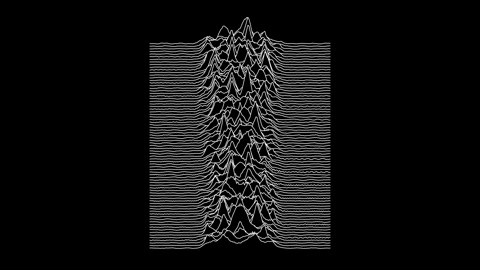
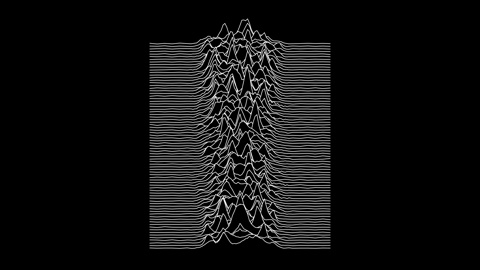
Pulsar: halve path work to meet the 0.5 ms budget
Back lines stroke the same closed path they erase with; the closing
edges are clipped (sides) or buried in the next line's full-alpha erase
(bottom). Flat tails are drawn at every 4th point. 1.1 -> 0.4 ms p50 at
2560x1440 in WebKit.

Changed region(s): [[0.3125, 0.0593, 0.6875, 0.9185], [0.3125, 0.8889, 0.3438, 0.9185], [0.3125, 0.6815, 0.3438, 0.7111]]

diff --git a/plugins/builtin/src/lib/ridges.test.js b/plugins/builtin/src/lib/ridges.test.js
@@ -7,6 +7,7 @@ import {
   buildLine,
   centralEnvelope,
   createRing,
+  drawOrder,
   drawRidges,
   resizeRing,
   ridgeLayout,
@@ -231,6 +232,14 @@ describe("buildLine", () => {
     expect(peaks).toBeGreaterThanOrEqual(3);
   });
 
+  it("never dips more than a wiggle below the baseline", () => {
+    const out = line();
+    for (let seed = 0; seed < 50; seed++) {
+      buildLine(out, 0, env, bandsWith(0, 63, 1), noise, 2, seed);
+      expect(Math.min(...out)).toBeGreaterThan(-0.02);
+    }
+  });
+
   it("wiggles a little in the tails with the waveform, but stays low there", () => {
     const out = line();
     buildLine(out, 0, env, bandsWith(0, 63, 1), noise, 2, 3);
@@ -278,6 +287,7 @@ describe("ridgeLayout", () => {
 describe("drawRidges", () => {
   const P = 5;
   const lay = { left: 100, width: 400, top: 50, bottom: 350, spacing: 100, amp: 200 };
+  const ALL = Int16Array.from([0, 1, 2, 3, 4]);
   /** Four lines; the row pushed k-th (k = 1…4) has the value k/10 at every point. */
   function ring4() {
     const r = createRing(4, P);
@@ -290,10 +300,14 @@ describe("drawRidges", () => {
   /** Split the log into per-draw-call segments: the path ops before each fill/stroke. */
   function draws(/** @type {ReturnType<typeof fakeContext>["log"]} */ log) {
     const out = [];
+    /** @type {typeof log} */
     let path = [];
+    let pathId = 0;
     for (const e of log) {
-      if (e.op === "begin") path = [];
-      else if (e.op === "fill" || e.op === "stroke") out.push({ ...e, path });
+      if (e.op === "begin") {
+        path = [];
+        pathId++;
+      } else if (e.op === "fill" || e.op === "stroke") out.push({ ...e, path: path.slice(), pathId });
       else path.push(e);
     }
     return out;
@@ -301,7 +315,7 @@ describe("drawRidges", () => {
 
   it("erases under each line (destination-out) and then strokes it (source-over)", () => {
     const { log, ctx } = fakeContext();
-    drawRidges(ctx, ring4(), lay, 0, "#ffffff", 3);
+    drawRidges(ctx, ring4(), ALL, lay, 0, "#ffffff", 3, 400);
     const d = draws(log);
     expect(d.map((e) => `${e.op}:${e.gco}`)).toEqual(
       Array(4).fill(["fill:destination-out", "stroke:source-over"]).flat(),
@@ -314,26 +328,77 @@ describe("drawRidges", () => {
 
   it("draws back to front: oldest (top) line first, newest (bottom) last", () => {
     const { log, ctx } = fakeContext();
-    drawRidges(ctx, ring4(), lay, 0, "#fff", 1);
+    drawRidges(ctx, ring4(), ALL, lay, 0, "#fff", 1, 400);
     const strokes = draws(log).filter((e) => e.op === "stroke");
     // Baselines 50, 150, 250, 350 minus value × amp (oldest row holds 0.1).
     expect(strokes.map((s) => s.path[0].y)).toEqual([50 - 20, 150 - 40, 250 - 60, 350 - 80].map((v) => expect.closeTo(v, 4)));
   });
 
-  it("strokes only the curve, but fills a closed region reaching below the line's baseline", () => {
+  it("draws only the points listed in `idx`, at their own x", () => {
     const { log, ctx } = fakeContext();
-    drawRidges(ctx, ring4(), lay, 0, "#fff", 1);
-    const [fill, stroke] = draws(log);
-    expect(stroke.path.map((p) => p.op)).toEqual(["move", "line", "line", "line", "line"]);
-    expect(stroke.path.map((p) => p.x)).toEqual([100, 200, 300, 400, 500]);
-    expect(fill.path.at(-1)?.op).toBe("close");
-    const lowest = Math.max(...fill.path.filter((p) => p.y !== undefined).map((p) => /** @type {number} */ (p.y)));
-    expect(lowest).toBeGreaterThan(50);
+    drawRidges(ctx, ring4(), Int16Array.from([0, 2, 4]), lay, 0, "#fff", 1, 400);
+    const d = draws(log);
+    const front = d[d.length - 1];
+    expect(front.path.map((p) => p.x)).toEqual([100, 300, 500]);
+    expect(d[0].path.slice(0, 3).map((p) => p.x)).toEqual([100, 300, 500]);
+  });
+
+  it("clips to the plot's width for the whole draw", () => {
+    const { log, ctx } = fakeContext();
+    drawRidges(ctx, ring4(), ALL, lay, 0, "#fff", 1, 400);
+    const ops = log.map((e) => e.op);
+    expect(ops.slice(0, 4)).toEqual(["save", "begin", "rect", "clip"]);
+    expect(log[2]).toMatchObject({ x: 100, w: 400 });
+    expect(ops.at(-1)).toBe("restore");
+  });
+
+  it("front two lines stroke only their curve; back lines stroke the path they erased with, whose closing edges stay hidden", () => {
+    const { log, ctx } = fakeContext();
+    drawRidges(ctx, ring4(), ALL, lay, 0, "#fff", 2, 400);
+    const d = draws(log);
+    const strokes = d.filter((e) => e.op === "stroke");
+    for (const s of strokes.slice(-2)) {
+      expect(s.path.map((p) => p.op)).toEqual(["move", "line", "line", "line", "line"]);
+      expect(s.path.map((p) => p.x)).toEqual([100, 200, 300, 400, 500]);
+    }
+    const lowest = (/** @type {typeof d[number]} */ f) =>
+      Math.max(...f.path.filter((p) => p.y !== undefined).map((p) => /** @type {number} */ (p.y)));
+    for (let k = 0; k < 2; k++) {
+      const [fill, stroke, nextFill] = [d[2 * k], d[2 * k + 1], d[2 * k + 2]];
+      expect(stroke.pathId).toBe(fill.pathId); // one trace, no beginPath in between
+      const nextBase = 50 + (k + 1) * 100;
+      expect(fill.path.at(-1)?.op).toBe("close");
+      // The closing edges: from the curve's last point round to its first (closePath).
+      const pts = [...fill.path.slice(P - 1, -1), fill.path[0]];
+      let crossing = 0;
+      for (let i = 1; i < pts.length; i++) {
+        const [a, b] = /** @type {{ x: number, y: number }[]} */ ([pts[i - 1], pts[i]]);
+        // A segment entering the plot's interior is visible unless buried: below the next
+        // line's baseline and inside the region the next line erases, with stroke margin.
+        if (Math.max(a.x, b.x) <= 100.5 || Math.min(a.x, b.x) >= 499.5) continue;
+        crossing++;
+        for (const y of [a.y, b.y]) {
+          expect(y).toBeGreaterThan(nextBase + 2);
+          expect(y).toBeLessThan(lowest(nextFill) - 2);
+        }
+      }
+      expect(crossing).toBe(1); // just the bottom edge
+    }
+  });
+
+  it("every erase reaches below its own baseline by more than a line spacing", () => {
+    const { log, ctx } = fakeContext();
+    drawRidges(ctx, ring4(), ALL, lay, 0, "#fff", 2, 400);
+    const fills = draws(log).filter((e) => e.op === "fill");
+    fills.forEach((f, k) => {
+      const lowest = Math.max(...f.path.filter((p) => p.y !== undefined).map((p) => /** @type {number} */ (p.y)));
+      expect(lowest).toBeGreaterThan(50 + k * 100 + 100);
+    });
   });
 
   it("offsets every line up by the scroll fraction and fades the oldest out, the newest in", () => {
     const { g, log, ctx } = fakeContext();
-    drawRidges(ctx, ring4(), lay, 0.25, "#fff", 1);
+    drawRidges(ctx, ring4(), ALL, lay, 0.25, "#fff", 1, 400);
     const strokes = draws(log).filter((e) => e.op === "stroke");
     expect(strokes[3].path[0].y).toBeCloseTo(350 - 25 - 80);
     expect(strokes.map((s) => s.alpha)).toEqual([0.75, 1, 1, 0.25]);
@@ -341,5 +406,21 @@ describe("drawRidges", () => {
     expect(fills.map((s) => s.alpha)).toEqual([0.75, 1, 1, 0.25]);
     expect(g.globalAlpha).toBe(1);
     expect(g.globalCompositeOperation).toBe("source-over");
+  });
+});
+
+describe("drawOrder", () => {
+  it("keeps every point of the bump, thins the flat tails, and always keeps both ends", () => {
+    const env = new Float32Array(97);
+    centralEnvelope(env, 0.25);
+    const idx = drawOrder(env, 4);
+    const list = Array.from(idx);
+    expect(list[0]).toBe(0);
+    expect(list.at(-1)).toBe(96);
+    for (let i = 1; i < list.length; i++) expect(list[i]).toBeGreaterThan(list[i - 1]);
+    for (let i = 0; i < 97; i++) if (env[i] > 0) expect(list).toContain(i);
+    const tail = list.filter((i) => env[i] === 0).length;
+    const tailTotal = env.filter((v) => v === 0).length;
+    expect(tail).toBeLessThan(tailTotal / 3);
   });
 });

diff --git a/plugins/builtin/src/lib/ridges.js b/plugins/builtin/src/lib/ridges.js
@@ -239,18 +239,33 @@ export function ridgeLayout(w, h, lines, height, out) {
 /**
  * Draw the history with hidden-line removal on a transparent canvas: back to front, each line
  * first erases what lies behind it (destination-out fill under its curve), then strokes itself.
+ *
+ * To halve the path work, a back line strokes the same closed path it erased with. Its closing
+ * edges stay invisible: the sides run outside the plot (clipped away) and the bottom edge lies
+ * below the next line's baseline, inside the region that line erases at full alpha. The two
+ * front lines (the newest fades in, so its erase is partial) stroke just their curve.
  * @param {CanvasRenderingContext2D} g
  * @param {ReturnType<typeof createRing>} ring
+ * @param {Int16Array} idx which points to draw, ascending (see {@link drawOrder})
  * @param {{ left: number, width: number, bottom: number, spacing: number, amp: number }} lay
  * @param {number} frac scroll fraction 0–1 from {@link advanceScroll}
  * @param {string} color stroke color
  * @param {number} lineWidth pixels
+ * @param {number} h canvas height, pixels
  */
-export function drawRidges(g, ring, lay, frac, color, lineWidth) {
+export function drawRidges(g, ring, idx, lay, frac, color, lineWidth, h) {
   const { data, points, lines } = ring;
   const { left, spacing, amp } = lay;
   const dx = lay.width / (points - 1);
   const right = left + lay.width;
+  // Erase depth below a line's own baseline: past the next baseline by a spacing, so the next
+  // line's erase covers this line's bottom edge (ridges dip at most a wiggle below baseline).
+  const depth = 2 * spacing + lineWidth;
+  const out = lineWidth + 2;
+  g.save();
+  g.beginPath();
+  g.rect(left, 0, lay.width, h);
+  g.clip();
   g.strokeStyle = color;
   g.lineWidth = lineWidth;
   g.lineJoin = "round";
@@ -260,19 +275,21 @@ export function drawRidges(g, ring, lay, frac, color, lineWidth) {
     // The oldest line fades out as it leaves, the newest fades in as it arrives: no popping.
     g.globalAlpha = age === lines - 1 ? 1 - frac : age === 0 ? frac : 1;
 
-    tracePoints(g, data, o, points, left, dx, base, amp);
-    const floor = base + spacing;
-    g.lineTo(right, floor);
-    g.lineTo(left, floor);
+    tracePoints(g, data, o, idx, left, dx, base, amp);
+    const floor = base + depth;
+    g.lineTo(right + out, base - data[o + points - 1] * amp);
+    g.lineTo(right + out, floor);
+    g.lineTo(left - out, floor);
+    g.lineTo(left - out, base - data[o] * amp);
     g.closePath();
     g.globalCompositeOperation = "destination-out";
     g.fill();
 
     g.globalCompositeOperation = "source-over";
-    tracePoints(g, data, o, points, left, dx, base, amp);
+    if (age < 2) tracePoints(g, data, o, idx, left, dx, base, amp);
     g.stroke();
   }
-  g.globalAlpha = 1;
+  g.restore();
 }
 
 /**
@@ -280,14 +297,35 @@ export function drawRidges(g, ring, lay, frac, color, lineWidth) {
  * @param {CanvasRenderingContext2D} g
  * @param {Float32Array} data
  * @param {number} o row offset
- * @param {number} points
+ * @param {Int16Array} idx
  * @param {number} left
  * @param {number} dx
  * @param {number} base baseline y
  * @param {number} amp
  */
-function tracePoints(g, data, o, points, left, dx, base, amp) {
+function tracePoints(g, data, o, idx, left, dx, base, amp) {
   g.beginPath();
-  g.moveTo(left, base - data[o] * amp);
-  for (let i = 1; i < points; i++) g.lineTo(left + i * dx, base - data[o + i] * amp);
+  g.moveTo(left + idx[0] * dx, base - data[o + idx[0]] * amp);
+  for (let k = 1; k < idx.length; k++) {
+    const i = idx[k];
+    g.lineTo(left + i * dx, base - data[o + i] * amp);
+  }
+}
+
+/**
+ * Indices of the points worth drawing: all of them where the envelope is non-zero, every
+ * `tailStride`-th in the flat tails (they only wiggle), plus both ends. Built once, not per frame.
+ * @param {Float32Array} env
+ * @param {number} tailStride
+ */
+export function drawOrder(env, tailStride) {
+  const last = env.length - 1;
+  /** @type {number[]} */
+  const idx = [];
+  for (let i = 0; i <= last; i++) {
+    // Keep the tail points next to the bump too, so the rise starts where it should.
+    const near = env[i] > 0 || (i > 0 && env[i - 1] > 0) || (i < last && env[i + 1] > 0);
+    if (near || i % tailStride === 0 || i === last) idx.push(i);
+  }
+  return Int16Array.from(idx);
 }

diff --git a/plugins/builtin/src/lib/fake-2d.test-helper.js b/plugins/builtin/src/lib/fake-2d.test-helper.js
@@ -1,10 +1,15 @@
 // @ts-check
 /** Test-only helper (not imported by any visualizer). */
 
-/** A 2d-context stand-in that records path, fill and stroke calls with the state at the time. */
+/**
+ * A 2d-context stand-in that records path, fill and stroke calls with the state at the time;
+ * save/restore keep a state stack like the real thing.
+ */
 export function fakeContext() {
   /** @type {{ op: string, x?: number, y?: number, w?: number, h?: number, gco?: string, alpha?: number, style?: unknown, width?: number }[]} */
   const log = [];
+  /** @type {any[][]} */
+  const stack = [];
   const g = {
     globalCompositeOperation: "source-over",
     globalAlpha: 1,
@@ -14,6 +19,18 @@ export function fakeContext() {
     lineJoin: "miter",
     clearRect: (/** @type {number} */ x, /** @type {number} */ y, /** @type {number} */ w, /** @type {number} */ h) =>
       log.push({ op: "clear", x, y, w, h }),
+    save: () => {
+      log.push({ op: "save" });
+      stack.push([g.globalCompositeOperation, g.globalAlpha, g.strokeStyle, g.fillStyle, g.lineWidth, g.lineJoin]);
+    },
+    restore: () => {
+      log.push({ op: "restore" });
+      const s = stack.pop();
+      if (s) [g.globalCompositeOperation, g.globalAlpha, g.strokeStyle, g.fillStyle, g.lineWidth, g.lineJoin] = s;
+    },
+    clip: () => log.push({ op: "clip" }),
+    rect: (/** @type {number} */ x, /** @type {number} */ y, /** @type {number} */ w, /** @type {number} */ h) =>
+      log.push({ op: "rect", x, y, w, h }),
     beginPath: () => log.push({ op: "begin" }),
     closePath: () => log.push({ op: "close" }),
     moveTo: (/** @type {number} */ x, /** @type {number} */ y) => log.push({ op: "move", x, y }),

diff --git a/plugins/builtin/src/pulsar.js b/plugins/builtin/src/pulsar.js
@@ -13,6 +13,7 @@ import {
   buildLine,
   centralEnvelope,
   createRing,
+  drawOrder,
   drawRidges,
   ENV_HALF_WIDTH,
   ridgeLayout,
@@ -21,7 +22,9 @@ import {
   stepGain,
 } from "./lib/ridges.js";
 
-const POINTS = 161;
+const POINTS = 97;
+/** Draw every n-th point of the flat tails (they only wiggle): keeps path work low. */
+const TAIL_STRIDE = 4;
 /** Manifest default of the Speed param (lines per second). */
 const DEFAULT_SPEED = 10;
 /** Used instead of the default when macOS "Reduce motion" is on. */
@@ -36,6 +39,7 @@ export default function create(ctx) {
   let lineWidth = 1;
   const env = new Float32Array(POINTS);
   centralEnvelope(env, ENV_HALF_WIDTH);
+  const idx = drawOrder(env, TAIL_STRIDE);
   const scroll = { frac: 0 };
   const gainState = { level: 0.5 };
   let gain = 1;
@@ -67,7 +71,7 @@ export default function create(ctx) {
 
       const { width: w, height: h } = ctx.size;
       g.clearRect(0, 0, w, h);
-      drawRidges(g, ring, lay, scroll.frac, color, lineWidth);
+      drawRidges(g, ring, idx, lay, scroll.frac, color, lineWidth, h);
     },
 
     resize() {

diff --git a/plugins/builtin/src/pulsar.test.js b/plugins/builtin/src/pulsar.test.js
@@ -33,7 +33,7 @@ function audioFrame(loud) {
 }
 
 /** Run `frames` frames at 60 Hz; returns the log of the last one. */
-function run(/** @type {ReturnType<typeof setup>} */ s, frames, loud = true) {
+function run(/** @type {ReturnType<typeof setup>} */ s, /** @type {number} */ frames, loud = true) {
   const audio = audioFrame(loud);
   for (let f = 0; f < frames; f++) {
     s.log.length = 0;

diff --git a/tests/test_builtin_manifests.py b/tests/test_builtin_manifests.py
@@ -102,7 +102,11 @@ def test_template_readme_covers_the_workflow():
 
 def test_pulsar_manifest():
     (v,) = [v for v in _manifest("builtin")["visualizers"] if v["id"] == "pulsar"]
-    assert (v["name"], v["entry"], v["thumbnail"]) == ("Pulsar", "src/pulsar.js", "thumbs/pulsar.jpg")
+    assert (v["name"], v["entry"], v["thumbnail"]) == (
+        "Pulsar",
+        "src/pulsar.js",
+        "thumbs/pulsar.jpg",
+    )
     params = {p["id"]: p for p in v["params"]}
     assert list(params) == ["lines", "speed", "height", "color", "lineWidth"]
     assert params["lines"]["default"] == "80"
